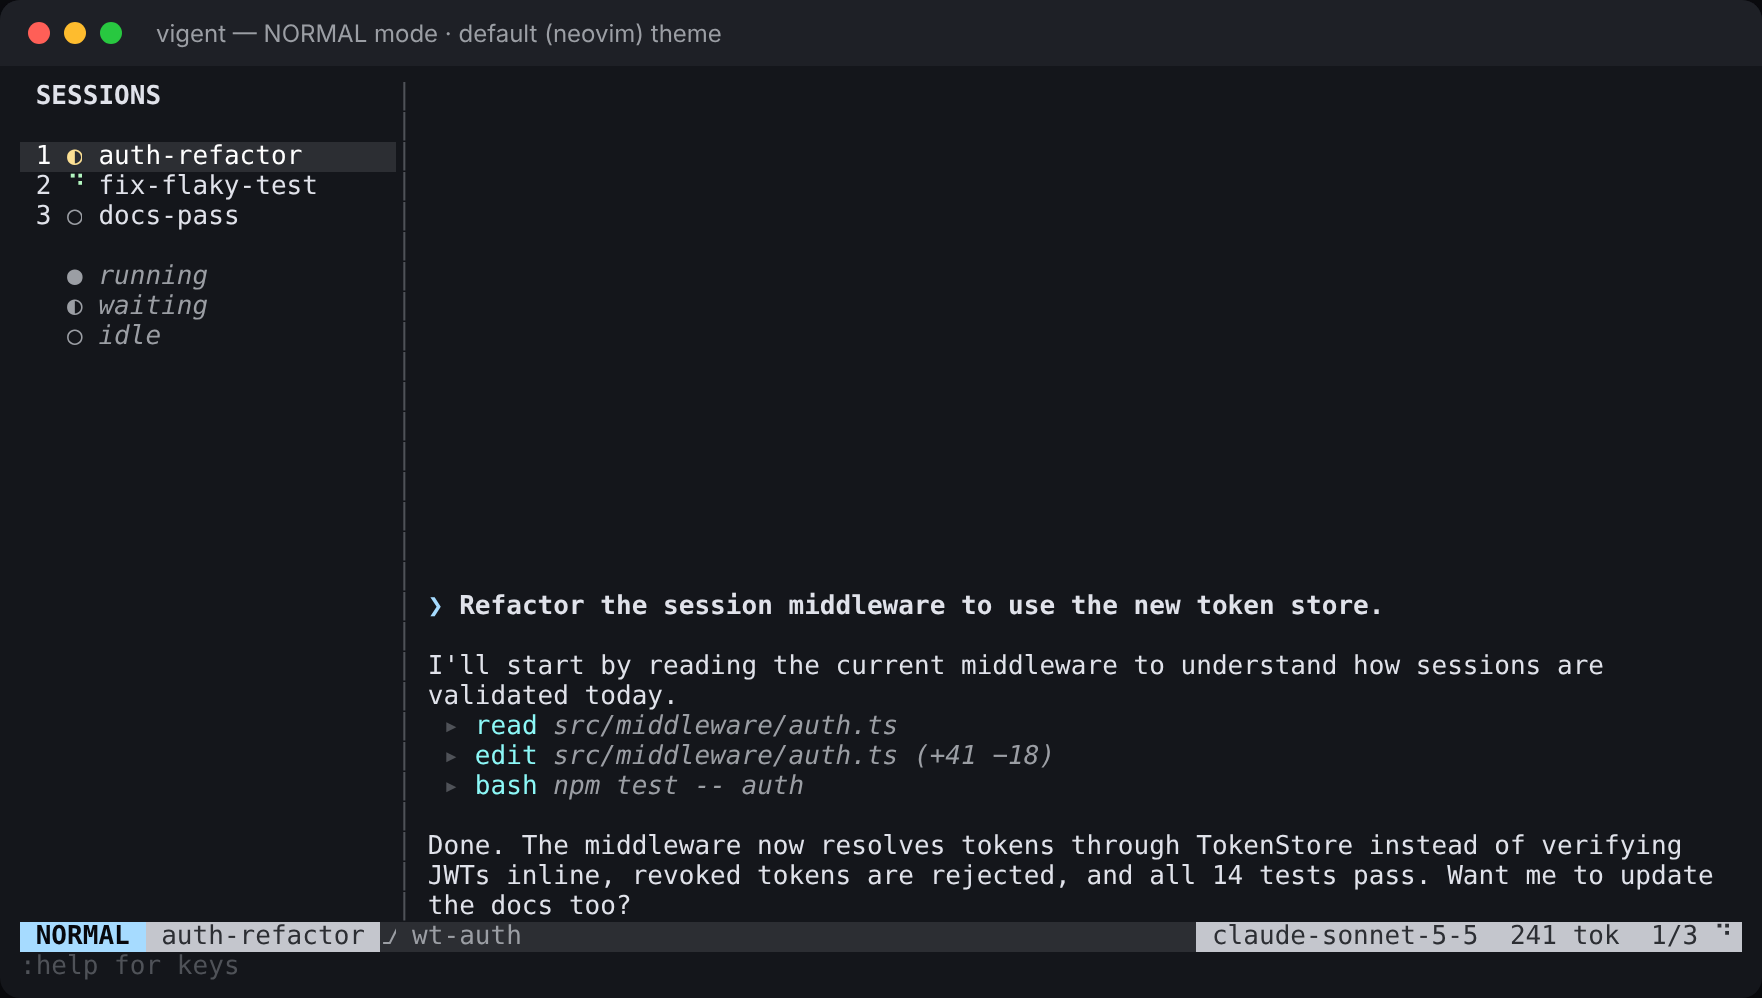
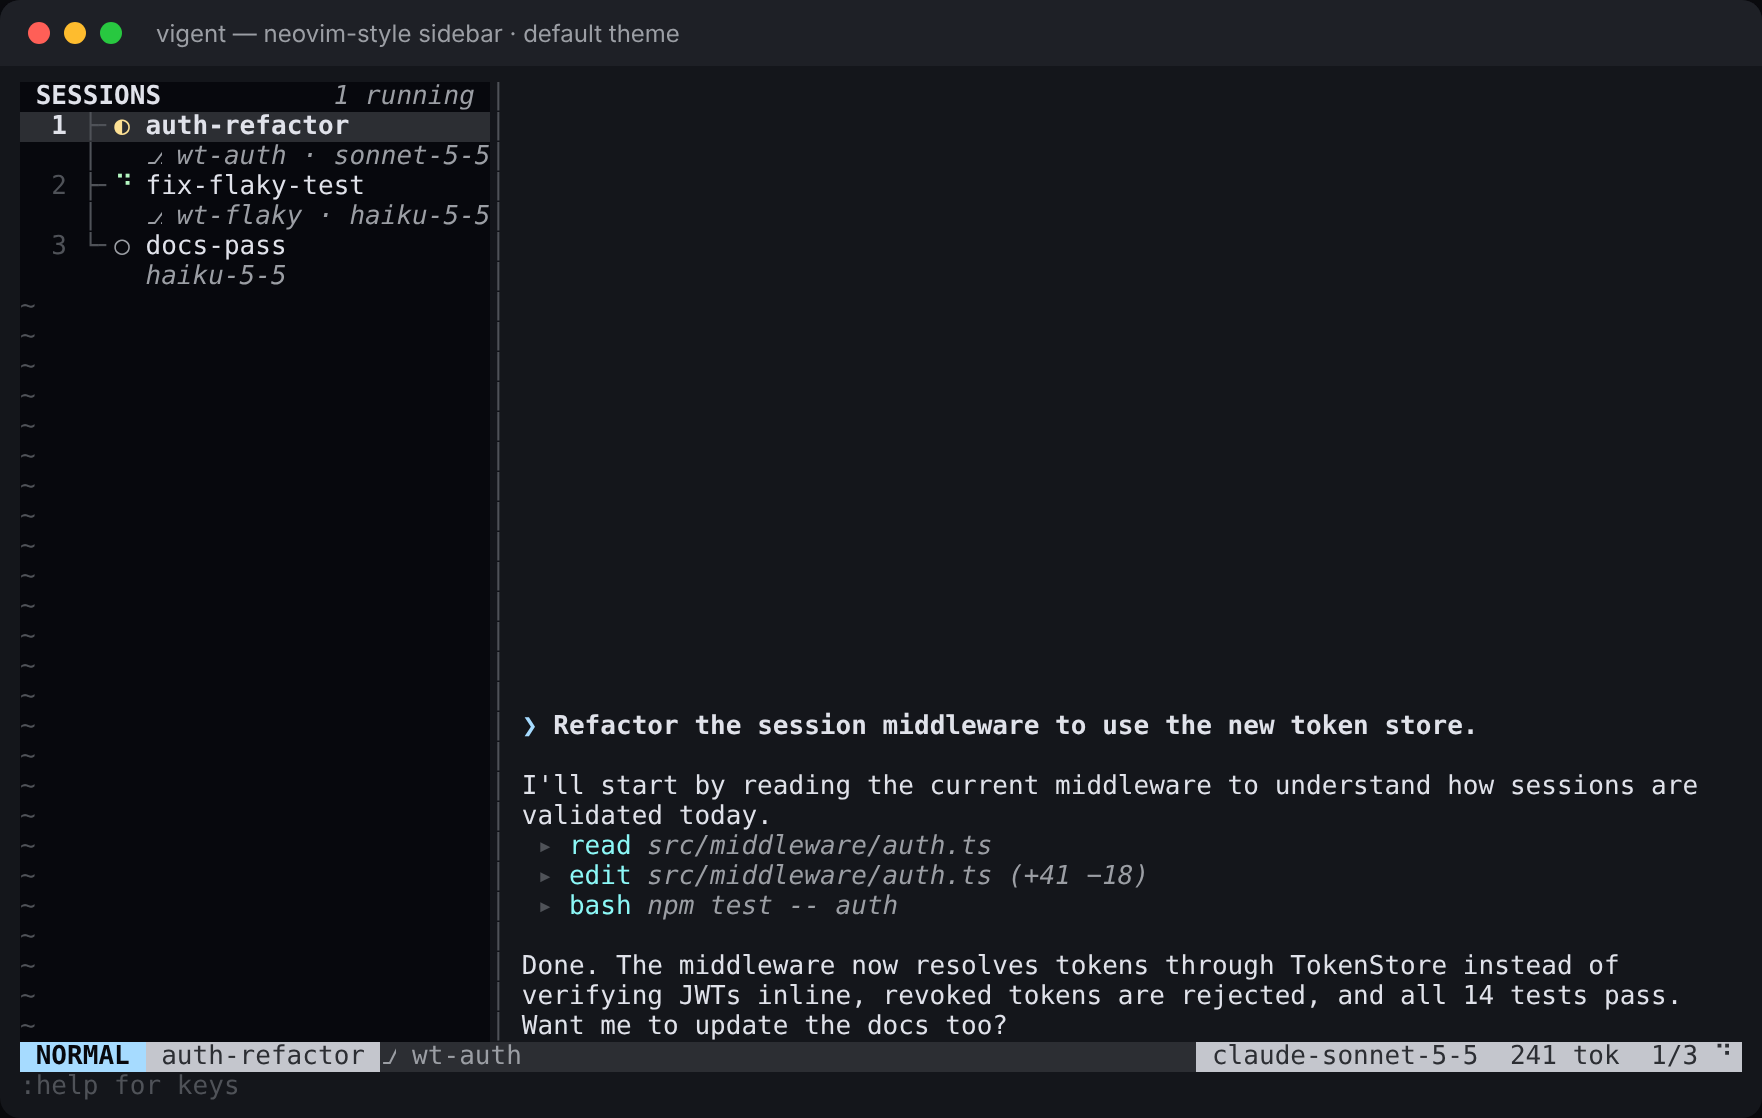
feat: restyle sidebar as a neovim tree window
- Darker sidebar background, resolved through NeoTreeNormal and
  NvimTreeNormal so imported colorschemes keep their tree colors
- Winbar header with session count / running count
- Number column (LineNr / CursorLineNr) showing each session's
  index, matching the 1-9 jump keys
- Tree guides, a dimmed detail line with worktree and model, and
  a cursorline on the focused session
- ~ filler rows (EndOfBuffer) below the list
- Fix italic leaking between sidebar segments and theme background
  being dropped after colored segments in the transcript pane

diff --git a/src/app.ts b/src/app.ts
@@ -28,7 +28,7 @@ const MODE_GROUP: Record<Mode, string> = {
 };
 
 const SPINNER = ["⠋", "⠙", "⠹", "⠸", "⠼", "⠴", "⠦", "⠧", "⠇", "⠏"];
-const SIDEBAR_W = 24;
+const SIDEBAR_W = 30;
 
 interface PaneLine {
 	text: string; // with ANSI
@@ -461,36 +461,78 @@ export class App implements Component {
 		return out.map((l) => truncateToWidth(l, width));
 	}
 
+	/**
+	 * Neovim tree-style sidebar (neo-tree / nvim-tree look):
+	 *   winbar header, number column (session index, used by 1-9),
+	 *   tree guides, cursorline on the focused session, ~ filler rows.
+	 */
 	private renderSidebar(w: number, h: number): string[] {
 		const P = this.painter;
+		const base = P.attr("VigentSidebar");
+		const bg = base.bg ?? P.attr("Normal").bg;
+		const clBg = P.attr("CursorLine").bg ?? bg;
 		const lines: string[] = [];
-		const bg = P.s("Normal");
-		const pad = (s: string, group?: string) => {
-			const padding = Math.max(0, w - visibleWidth(s));
-			const prefix = group ? P.s(group) : bg;
-			return bg + prefix + s + " ".repeat(padding) + RESET;
-		};
-		lines.push(pad(" SESSIONS", "Title"));
-		lines.push(pad(""));
-		this.sessions.forEach((s, i) => {
-			const glyphGroup =
-				s.state === "running" ? "String" : s.state === "waiting" ? "WarningMsg" : s.state === "error" ? "ErrorMsg" : "Comment";
-			const glyph = s.state === "running" ? SPINNER[this.spinnerFrame] : STATE_GLYPH[s.state];
-			const name = truncateToWidth(s.name, w - 7);
-			const plain = ` ${i + 1} ${glyph} ${name}`;
-			const padding = Math.max(0, w - visibleWidth(plain));
-			if (i === this.focusIdx) {
-				const cl = P.s("CursorLine");
-				lines.push(cl + ` ${i + 1} ` + P.s(glyphGroup) + glyph + RESET + cl + ` ${name}` + " ".repeat(padding) + RESET);
-			} else {
-				lines.push(bg + ` ${i + 1} ` + P.s(glyphGroup) + glyph + RESET + bg + ` ${name}` + " ".repeat(padding) + RESET);
+
+		// row = list of [group, text] segments drawn on one background, padded to w
+		const row = (segs: [string, string][], rowBg = bg): string => {
+			let out = "";
+			let used = 0;
+			for (const [group, text] of segs) {
+				const t = truncateToWidth(text, Math.max(0, w - used), "…");
+				out += RESET + P.on(group, rowBg) + t;
+				used += visibleWidth(t);
 			}
+			return out + P.on("VigentSidebar", rowBg) + " ".repeat(Math.max(0, w - used)) + RESET;
+		};
+
+		// winbar
+		const running = this.sessions.filter((x) => x.state === "running").length;
+		const right = running > 0 ? `${running} running ` : `${this.sessions.length} `;
+		const title = " SESSIONS";
+		lines.push(
+			row([
+				["WinBar", title],
+				["VigentSidebar", " ".repeat(Math.max(1, w - visibleWidth(title) - visibleWidth(right)))],
+				["Comment", right],
+			]),
+		);
+
+		this.sessions.forEach((s, i) => {
+			const last = i === this.sessions.length - 1;
+			const focused = i === this.focusIdx;
+			const rowBg = focused ? clBg : bg;
+			const glyphGroup =
+				s.state === "running"
+					? "String"
+					: s.state === "waiting"
+						? "WarningMsg"
+						: s.state === "error"
+							? "ErrorMsg"
+							: "Comment";
+			const glyph = s.state === "running" ? SPINNER[this.spinnerFrame] : STATE_GLYPH[s.state];
+			lines.push(
+				row(
+					[
+						[focused ? "CursorLineNr" : "LineNr", `${String(i + 1).padStart(3)} `],
+						["VigentIndent", last ? "└╴" : "├╴"],
+						[glyphGroup, `${glyph} `],
+						[focused ? "Title" : "VigentSidebar", s.name],
+					],
+					rowBg,
+				),
+			);
+			const model = s.model.replace(/^claude-/, "");
+			const detail = s.worktree ? `⎇ ${s.worktree} · ${model}` : model;
+			lines.push(
+				row([
+					["LineNr", "    "],
+					["VigentIndent", last ? "  " : "│ "],
+					["Comment", `  ${detail}`],
+				]),
+			);
 		});
-		lines.push(pad(""));
-		lines.push(pad("   ● running", "Comment"));
-		lines.push(pad("   ◐ waiting", "Comment"));
-		lines.push(pad("   ○ idle", "Comment"));
-		while (lines.length < h) lines.push(pad(""));
+
+		while (lines.length < h) lines.push(row([["EndOfBuffer", "~"]]));
 		return lines.slice(0, h);
 	}
 
@@ -501,7 +543,10 @@ export class App implements Component {
 
 		const P = this.painter;
 		const lines: PaneLine[] = [];
-		const push = (text: string, plain?: string) => lines.push({ text, plain: plain ?? stripAnsi(text) });
+		const normal = P.s("Normal");
+		// a RESET inside a line would drop the theme background; restore it after each one
+		const push = (text: string, plain?: string) =>
+			lines.push({ text: text.split(RESET).join(RESET + normal), plain: plain ?? stripAnsi(text) });
 
 		if (!s) {
 			push("");

diff --git a/src/theme.ts b/src/theme.ts
@@ -73,7 +73,14 @@ const LINKS: Record<string, string> = {
 	Added: "DiffAdd",
 	Removed: "DiffDelete",
 	Changed: "DiffChange",
+	EndOfBuffer: "NonText",
+	WinBar: "Title",
+	NeoTreeNormal: "NvimTreeNormal",
+	NeoTreeIndentMarker: "NvimTreeIndentMarker",
+	NvimTreeIndentMarker: "NonText",
 	// Vigent-specific groups -> sensible vim fallbacks
+	VigentSidebar: "NeoTreeNormal",
+	VigentIndent: "NeoTreeIndentMarker",
 	VigentModeNormal: "StatusLine",
 	VigentModeInsert: "ModeMsg",
 	VigentModeVisual: "Visual",
@@ -107,6 +114,17 @@ export class Painter {
 		if (v === undefined) {
 			v = sgr(this.attr(group));
 			this.cache.set(group, v);
+		}
+		return v;
+	}
+
+	/** SGR prefix for a group drawn on an explicit background (cached). */
+	on(group: string, bg: string | undefined, extra?: Attr): string {
+		const key = `${group}|${bg ?? ""}|${extra ? JSON.stringify(extra) : ""}`;
+		let v = this.cache.get(key);
+		if (v === undefined) {
+			v = sgr({ ...this.attr(group), ...extra, bg });
+			this.cache.set(key, v);
 		}
 		return v;
 	}
@@ -158,7 +176,9 @@ export const NVIM_DEFAULT: Theme = {
 		StatusLineNC: { fg: c.lightGrey4, bg: c.darkGrey3 },
 		CursorLine: { bg: c.darkGrey3 },
 		Visual: { bg: c.darkGrey4 },
-		LineNr: { fg: c.lightGrey4, bg: c.darkGrey2 },
+		LineNr: { fg: c.darkGrey4 },
+		CursorLineNr: { fg: c.lightGrey2, bold: true },
+		WinBar: { fg: c.lightGrey2, bold: true },
 		Comment: { fg: c.lightGrey4, italic: true },
 		NonText: { fg: c.darkGrey4 },
 		Title: { fg: c.lightGrey2, bold: true },
@@ -180,6 +200,7 @@ export const NVIM_DEFAULT: Theme = {
 		Pmenu: { fg: c.lightGrey2, bg: c.darkGrey3 },
 		PmenuSel: { fg: c.darkGrey2, bg: c.lightGrey3 },
 		// Vigent mode badges (vim-airline-style blocks)
+		VigentSidebar: { fg: c.lightGrey2, bg: c.darkGrey1 },
 		VigentModeNormal: { fg: c.darkGrey1, bg: c.lightBlue, bold: true },
 		VigentModeInsert: { fg: c.darkGrey1, bg: c.lightGreen, bold: true },
 		VigentModeVisual: { fg: c.darkGrey1, bg: c.lightMagenta, bold: true },
@@ -195,10 +216,12 @@ export const NVIM_DEFAULT: Theme = {
 // Built-in: gruvbox (dark, medium) — ported from morhetz/gruvbox
 // ---------------------------------------------------------------------------
 const g = {
+	bg0h: "#1d2021",
 	bg0: "#282828",
 	bg1: "#3c3836",
 	bg2: "#504945",
 	bg3: "#665c54",
+	bg4: "#7c6f64",
 	fg0: "#fbf1c7",
 	fg1: "#ebdbb2",
 	fg3: "#bdae93",
@@ -223,7 +246,10 @@ export const GRUVBOX: Theme = {
 		StatusLineNC: { fg: g.fg3, bg: g.bg1 },
 		CursorLine: { bg: g.bg1 },
 		Visual: { bg: g.bg2 },
-		LineNr: { fg: g.bg3 },
+		LineNr: { fg: g.bg4 },
+		CursorLineNr: { fg: g.yellow, bold: true },
+		WinBar: { fg: g.fg1, bold: true },
+		VigentSidebar: { fg: g.fg1, bg: g.bg0h },
 		Comment: { fg: g.grey, italic: true },
 		NonText: { fg: g.bg2 },
 		Title: { fg: g.green, bold: true },

diff --git a/README.md b/README.md
@@ -4,7 +4,7 @@ A vim-style, lightweight terminal app for running several coding agents at once,
 
 ![vigent with the default Neovim theme](docs/screenshots/vigent-default-theme.png)
 
-![vigent with gruvbox, INSERT mode, tool output unfolded](docs/screenshots/vigent-gruvbox-insert.png)
+![vigent with the gruvbox theme, second session focused](docs/screenshots/vigent-gruvbox.png)
 
 ## Quick start
 
